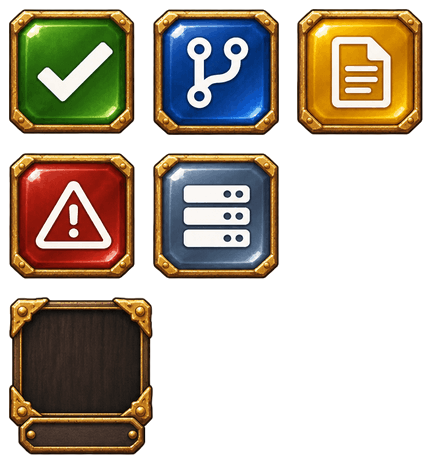
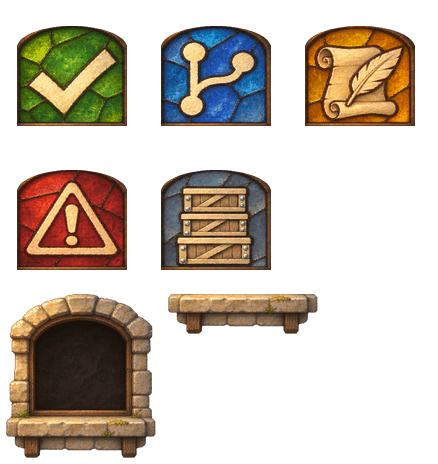
Village art: stained-glass status windows
The status tiles repainted as internally lit stained-glass windows in a
limestone arch frame with a carved sill (same frame names and sizes), and an
optional separate sill crop.

diff --git a/rendering/ASSETS.md b/rendering/ASSETS.md
@@ -1236,7 +1236,7 @@ connector lines, which belong to the renderer.
 ## Village — modular painterly village kit (2026-11-06)
 
 The Village kit is original generated artwork made with the built-in `image_gen`
-tool in sixteen calls. The user's private `design/references/village-concept.png`
+tool in seventeen calls. The user's private `design/references/village-concept.png`
 was inspected as a visual reference for the warm painterly pixel-art village,
 three-quarter overhead perspective, golden upper-left light, roofs, crystal,
 round robots and materials. No pixels from that image were copied into any
@@ -1246,7 +1246,8 @@ background. No external game service was used.
 Finals are `src/assets/village/<sheet>.png` and matching `.json`, with `scale: 3`:
 `buildings` (11 frames), `banner` (13), `tiles` (6), `robots` (73), `fountain` (7),
 `ground` (18), `scenery` (50) and `hud` (8): 186 original frames. The supplemental
-`ground-warm` sheet below adds thirteen, for 199 total. All 151 originally
+`ground-warm` sheet below adds thirteen; the stained-glass revision adds a
+separate sill, for 200 total. All 151 originally
 requested names remain present. The thirty-four additional frames beyond the
 first complete 152-frame pass are documented in `src/assets/village/STATUS.md`.
 
@@ -1547,3 +1548,53 @@ Original output: `exec-b37328f5-d123-461a-abd9-c45392222c5f.png`.
 Exact prompt:
 
 > Use case: stylized-concept. Single ISOLATED VERY LONG SHALLOW STONE PORCH LEDGE game sprite on genuinely transparent background. Original warm painterly pixel-art fantasy village asset, 3/4 top-down view facing south, straight horizontal front edge, warm upper-left light, fine dark-brown outlines and muted grey-tan limestone. At game scale the ledge is about 400 pixels WIDE and only 22 pixels DEEP TOTAL including its visible front face: extremely low long strip, NOT a broad patio, NOT stairs. Only ONE shallow raised step. A narrow top walking surface of irregular warm grey/taupe stone slabs (about 14px apparent depth) over a single narrow darker stone block front face (about 8px tall); front and top together total22px, width400px, around18:1 overall ratio. Slender outer cap at left/right with small chamfer, straight join-friendly middle. Four small circular inset floor-light SOCKETS evenly spaced along the narrow top near the front edge, restrained dull brass ring and dark unlit centre, blank so the game can add colored light dynamically. No bright permanent colored lights. Fine little chips at stone corners, a few tiny moss flecks at far ends only, sophisticated grey-brown neutral palette matching muted cobblestone village paving, no bright yellow/orange cast. Show the entire ledge completely inside canvas with wide transparent margins on ALL sides. No building, no roof, no robots, no poles, no dirt/grass ground patch, no multiple steps, no rails, no text, no checkerboard. The long THIN one-step silhouette is essential. Output landscape 1536x1024.
+
+
+### Village stained-glass status fixtures
+
+One further built-in `image_gen` call replaces the five glossy app-style state
+tiles with physical stained-glass windows, painted emblems and carved stone
+surrounds that belong to the village facade. The user supplied app crops were
+inspected as problem evidence. A private mock compares the old/new fixtures on
+the same hall beside the concept's building materials. No pixels from the
+concept or app screenshots were copied into any final sprite.
+
+`tile-merged` is emerald/moss glass with a cream painted check; `tile-review`
+azure/cobalt with a three-junction branching path; `tile-draft` amber with scroll
+and quill; `tile-failing` ruby with a triangular warning; `tile-none` cool slate
+with stacked timber storage compartments. Glass is mottled and softly lit from
+within, without glossy specular blobs. Warm ivory emblems and dark lead/oak
+seams replace flat white vector glyphs. Chipped limestone and timber corbels
+have warm upper-left illumination matching the halls.
+
+The five glass-only faces are inset into their original 132x132 canvases, at
+11/20 with 110x100 content. Their shallow arch mask fits the repainted
+`tile-frame`, whose 150x164 canvas contains the masonry surround, carved sill
+and corbels, with no empty name/count slot. All six prior JSON frame records
+remain identical, including anchors and atlas positions; the atlas remains
+438x464. An optional `tile-sill` is 150x40 at x168/y294 with anchor ax0.5/ay0.925,
+cut from the surround's lower section. It is already integrated into the full
+surround. The renderer's separate empty plate-strip decoration is independent
+of the artwork and must be removed/replaced during integration; live status
+colour dots remain code-owned.
+
+The seven-frame sheet is libimagequant-indexed, 256 colours with dithering off,
+and optimised with Pillow: 55,523 bytes versus 136,201 previously. The whole
+nine-sheet kit is now 8,500,099 bytes. Other sheets were untouched. Alpha,
+nonempty bounds and exact preservation of the six existing frame records were
+checked. The art mock checks all states at 86px and 43px surround widths and
+compares their material language against both the hall and concept.
+
+The private recipe is `artifacts/village/build-tiles-v6.py`; source outputs,
+`prompts-v6.json`, the before snapshot and visual/validation artifacts are
+retained in `artifacts/village/raw/` and `artifacts/village/tiles-v6/`. The mock
+is `tiles-v6/mock.png`. The concept occurs only in that private review image,
+never in the final tiles.
+
+### Village source: tiles_v6
+
+Original output: `exec-150e0d20-af68-4c4c-b031-d3645a2a8957.png`.
+
+Exact prompt:
+
+> Use case: stylized-concept. Production transparent GAME ARCHITECTURE SPRITE SHEET, exact 3 columns x 2 rows with wide empty transparent gutters. Five small STAINED-GLASS STATUS WINDOWS and one matching EMPTY ARCH SURROUND, part of a hand-painted fantasy village stone hall. Camera near-front facade seen from 3/4 top-down, tiny visible upper surfaces and a shallow raised sill, golden afternoon light upper left. Painterly PIXEL-ART miniature material detail, warm grey/tan chipped limestone, dark worn oak, restrained aged bronze lead came. The windows are physical matte translucent stained glass lit softly from within, with uneven panes and painted emblems; NEVER glossy app buttons, shiny enamel, flat vector icons, gold icon frames or HUD panels. Each coloured glass face has a nearly square silhouette with a shallow rounded/arched upper edge, about132x132 at sprite sampling, a VERY THIN dark oak lip only. Large central emblem fills about55% of face and reads at 40px. Lead joints form only a few broad asymmetrical surrounding panes, no busy radial starburst behind emblem. Emblems are warm ivory/cream painted into glass, uneven painted edges with thin dark shadow/lead seam, never flat white cutout glyphs. TOP LEFT: deep moss/emerald GREEN stained glass, large clear painted CHECK emblem. TOP MIDDLE: cobalt/azure BLUE stained glass, large painted BRANCHING PATH emblem with 3 round junctions (pull request shape), simple and readable. TOP RIGHT: honey/AMBER stained glass, painted small rolled PARCHMENT SCROLL with a broad diagonal QUILL, simple bold silhouette. BOTTOM LEFT: deep warm ruby RED stained glass, large triangular warning emblem and exclamation, cream in dark outline. BOTTOM MIDDLE: cool desaturated SLATE BLUE smoked glass, three stacked old wooden STORAGE CRATE/rack compartments as painted emblem, with simple pale horizontal slats and tiny pale cyan inset rivets, fantasy storage/server state, no modern white server icon. BOTTOM RIGHT: matching EMPTY surrounding stone ARCH AND INTEGRATED SILL only, same family as the windows, footprint150 wide x164 high. Dark rough empty opening fills upper square area (a window face will overlay it), shallow rounded arch above, rough warm limestone blocks and a worn dark-oak inner lip. Below the opening, immediately attached, one broad carved STONE SILL with two little timber corbels, shallow worn carved edge and a few subtle moss flecks; no empty name/count plaque, no dark label slot, no riveted plate. The surround must look built into a village facade, understated rather than ornate. All six objects fully visible in own cell with same scale/camera/light. No text, letters, counts, labels, robots, buildings beyond these fixtures, backgrounds, checkerboard or ground patches. Genuinely transparent exterior. Output1536x1024.

diff --git a/rendering/src/assets/village/STATUS.md b/rendering/src/assets/village/STATUS.md
@@ -1,6 +1,6 @@
 # Village art — final kit
 
-All 151 required frame names are final and present. There are **199 frames** in
+All 151 required frame names are final and present. There are **200 frames** in
 nine PNG/JSON pairs, all at nominal **scale 3**, with true alpha and explicit anchors.
 The complete first pass was delivered before this refinement pass.
 
@@ -8,7 +8,7 @@ The complete first pass was delivered before this refinement pass.
 | --- | ---: | --- |
 | buildings | 11 | Six roof variants, four empty front bays each, extension arch, foundation steps, warm lantern, flower box, ivy |
 | banner | 13 | Blank navy/gold banner, parchment plaques and three-slice pieces, low dark workspace name plate |
-| tiles | 6 | Green/blue/yellow/red/slate tiles with fixed glyphs; blank count frame |
+| tiles | 7 | Five painted stained-glass state windows, carved masonry surround/sill, optional separate sill |
 | robots | 73 | Eight vivid palettes, four idle/four work poses each, eight flying drones, neutral floor light |
 | fountain | 7 | Tall blue crystal/low basin, grey offline crystal with still water, glow, four ripples |
 | ground | 18 | Seamless grass/cobble/path, round plaza, porch and cap pieces, organic paving transitions |
@@ -68,7 +68,7 @@ reuses the current painted kit and updates the supplemental pieces.
 
 ## Compression and resolution audit
 
-The original eight PNGs total **8,242,573 bytes (8.24 MB / 7.86 MiB)**, down from
+The original compression pass brought eight PNGs to **8,242,573 bytes (8.24 MB / 7.86 MiB)**, down from
 24,193,470 bytes: **65.9% smaller**, below the 10 MB target. This is perceptual
 palette compression, not mathematically lossless RGB compression.
 
@@ -116,7 +116,7 @@ and reapply this optimisation after rebuilding source sheets.
 ## Warm paving and shallow robot ledge
 
 The supplemental **`ground-warm.png` / `ground-warm.json`** pair adds thirteen
-frames, compressed to **338,204 bytes**. The complete nine-sheet kit now totals
+frames, compressed to **338,204 bytes**. At that pass the nine-sheet kit totalled
 **8,580,777 bytes (8.58 MB / 8.18 MiB)**. The preceding eight sheet pairs were
 not rewritten by this pass.
 
@@ -149,6 +149,43 @@ exact prompts (`prompts-v5.json`), the `build-warm.py` recipe and the private
 `warm/validation.json` remain in the ignored art artifacts. No concept pixels
 were copied into any sprite or texture.
 
+## Stained-glass status fixtures
+
+The five state faces now look like painted, internally lit stained-glass
+windows set into the village's stone architecture. Glossy enamel, flat white
+app glyphs, bright gold icon borders and the artwork's empty count plaque have
+been replaced by mottled glass, warm ivory painted emblems, dark oak/lead seams,
+chipped limestone, and a carved stone sill with timber corbels.
+
+- `tile-merged`: emerald/moss green, painted check.
+- `tile-review`: azure/cobalt blue, three-junction branching path.
+- `tile-draft`: amber, parchment scroll and quill.
+- `tile-failing`: ruby red, triangular warning mark.
+- `tile-none`: cool slate, three stacked timber storage compartments/crates.
+- `tile-frame`: the matching empty architectural arch and integrated carved
+  sill; it has no count/name-plate slot.
+- `tile-sill`: optional separate crop of that sill, **150x40 source px**, with
+  bottom contact anchor **ax 0.5 / ay 0.925**. It is already in `tile-frame` and
+  need not be drawn twice. The crop occupies x168/y294 in `tiles.png`.
+
+All six existing frame rectangles, dimensions, positions and anchors remain
+**identical**: state faces 132x132, surround 150x164, atlas 438x464. Faces inset
+their glass content at source x11/y20, 110x100, aligning with the surround's
+opening under the existing frame/tile placement. The renderer still owns any
+live state dot; its separately drawn empty `plateStrip` must be removed or
+replaced with the carved sill during integration.
+
+The seven-frame `tiles.png` is a **55,523-byte** indexed PNG (256 colours,
+dithering off), down from 136,201 bytes. All nine sheets now total
+**8,500,099 bytes (8.50 MB)**. Other sheet pairs were untouched by this repaint.
+The warm upper-left lighting, paint texture and small-size state distinction
+were reviewed against the hall and private concept in
+`rendering/artifacts/village/tiles-v6/mock.png`; it also shows every state at
+86px and 43px surround widths. `build-tiles-v6.py`, `prompts-v6.json`, the raw
+generated source and `tiles-v6/validation.json` retain the recipe/proof. No
+concept pixels are used in the sprites. This repaint used one built-in
+imagegen call.
+
 Integration geometry:
 
 - Standing pieces anchor at ground contact, excluding transparent frame padding.
@@ -170,7 +207,7 @@ Integration geometry:
   project icons and dynamic status. The five fixed tile glyphs are painted in.
 
 Provenance, every exact prompt, source filenames and assembly notes are in
-`rendering/ASSETS.md`. Sixteen built-in `image_gen` calls supplied the art. No
+`rendering/ASSETS.md`. Seventeen built-in `image_gen` calls supplied the art. No
 concept pixels were copied, and the ignored concept is never a runtime asset.
 
 Private files in ignored `rendering/artifacts/village/`:
